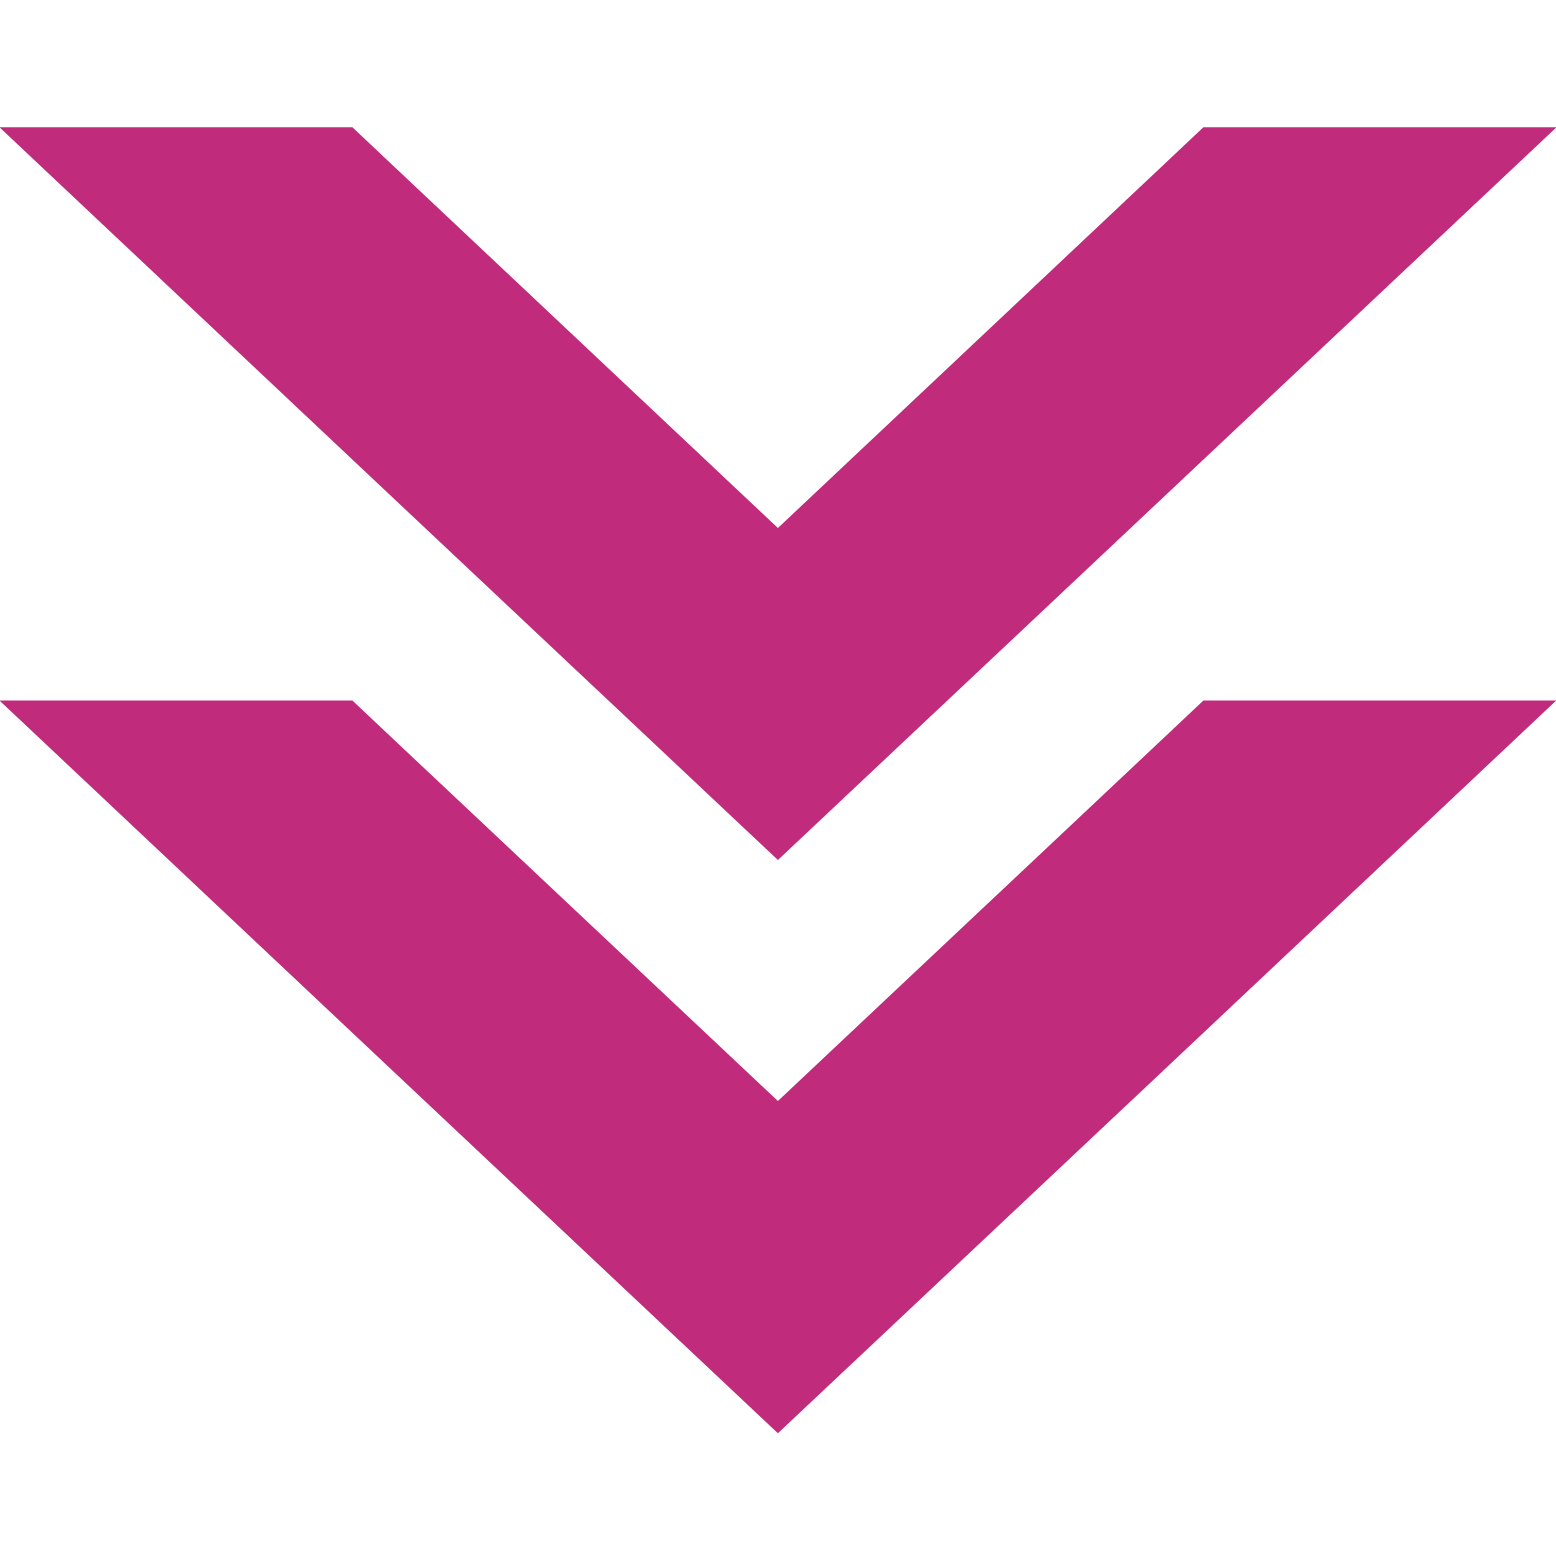
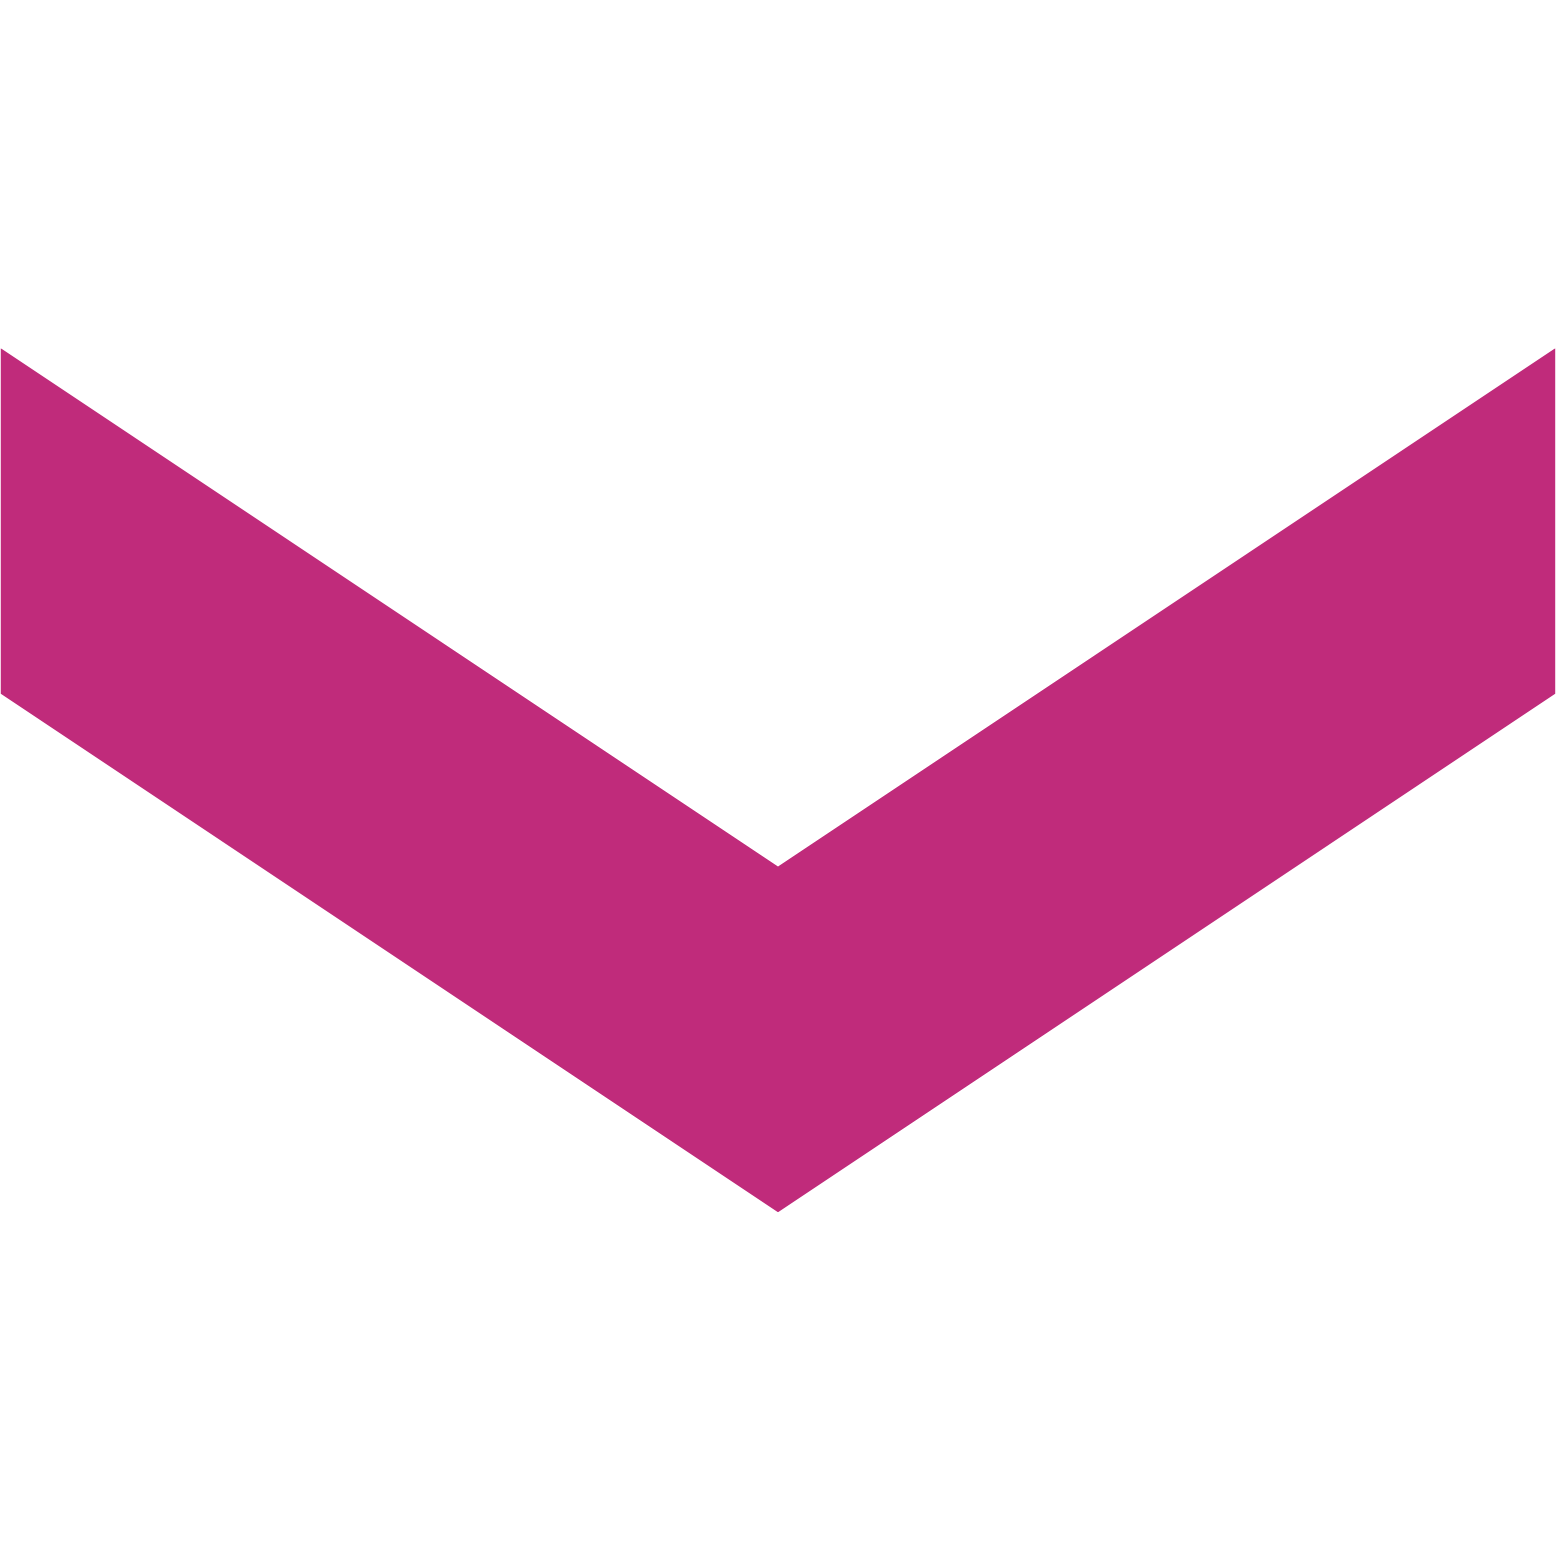
ftr: add newsletter module

diff --git a/src/copy/about.js b/src/copy/about.js
@@ -1,6 +1,18 @@
 const about_liz_button_color = "Pink";
 const about_liz_link = "https://lizshiptonauthor.substack.com";
 
+export const ABOUT_INDEX_PAGE = {
+    image: "Broadside Header",
+    mobileImage: "Broadside Banner",
+    title: "Newsletter",
+    headlineOne: "If AI gave you power you could barely control...would you use it?",
+    alt: "Dot Slash Magic header",
+    link: about_liz_link,
+    button: about_liz_button_color,
+    cta: "newsletter",
+    mobileCta: "newsletter",
+}
+
 const about_liz_subheading = "Hi. I'm Liz.";
 const about_liz_image = "Headshot 2026";
 const about_liz_alt = "Liz Shipton's Headshot";

diff --git a/src/pages/index.module.css b/src/pages/index.module.css
@@ -46,15 +46,15 @@
 }
 
 .hero {
-    animation: shrinkAndFadeOutHero 1s linear both;
+    animation: shrinkAndFadeOutHero .5s linear both;
     animation-play-state: paused, paused;
-    animation-delay: calc(((var(--scroll) * 2.5) - (var(--layer))) * -2s);
+    animation-delay: calc(((var(--scroll) * 2.7) - (var(--layer))) * -2s);
 }
 
 .container {
-    animation: shrinkAndFadeOutContainer 1.2s linear both;
+    animation: shrinkAndFadeOutContainer .7s linear both;
     animation-play-state: paused;
-    animation-delay: calc(((var(--scroll) * 2.8) - (var(--layer))) * -2s);
+    animation-delay: calc(((var(--scroll) * 3.4) - (var(--layer))) * -2s);
 }
 
 @media only screen and (max-width: 750px) {

diff --git a/src/pages/index.js b/src/pages/index.js
@@ -9,8 +9,9 @@ import SeriesBlock from '../components/index/series-block';
 import { DOTSLASH_INDEX_PAGE } from '../copy/dotslash_magic';
 import { THALASSIC_INDEX_PAGE } from '../copy/thalassic';
 import { MOTHER_INDEX_PAGE } from '../copy/mother-slaughter';
+import { ABOUT_INDEX_PAGE } from '../copy/about';
 
-const INDEX_CONTENT = [MOTHER_INDEX_PAGE, DOTSLASH_INDEX_PAGE, THALASSIC_INDEX_PAGE]
+const INDEX_CONTENT = [MOTHER_INDEX_PAGE, DOTSLASH_INDEX_PAGE, THALASSIC_INDEX_PAGE, ABOUT_INDEX_PAGE]
 
 const IndexPage = () => {
 

diff --git a/src/components/header.module.css b/src/components/header.module.css
@@ -9,7 +9,7 @@
         position: sticky;
         top: 0;
         width: 100vw;
-        z-index: 4;
+        z-index: 100;
 }
 
 @keyframes sticky-parallax-header-move-and-size {